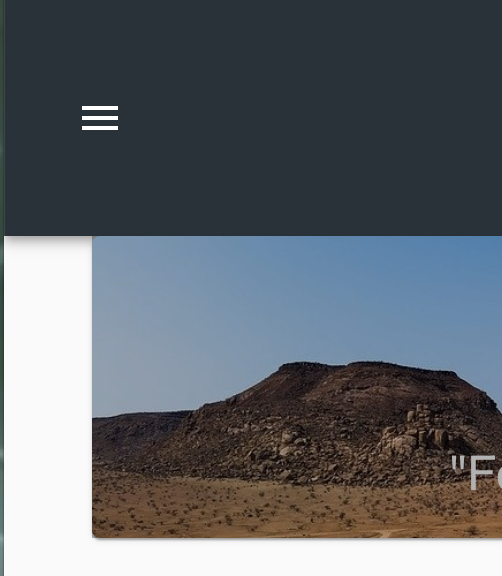
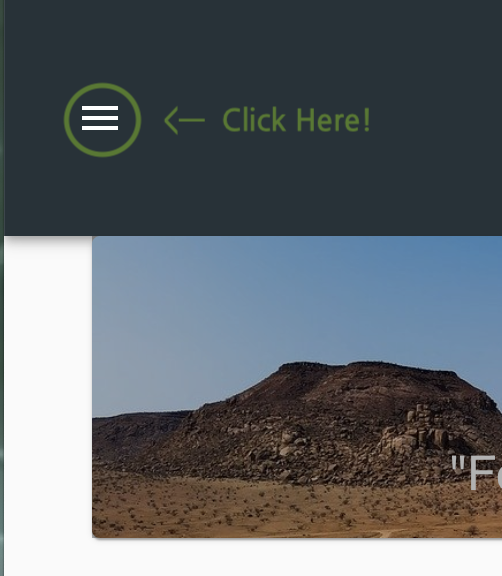
maybe final,,?

diff --git a/aganon_web/src/pages/Header.js b/aganon_web/src/pages/Header.js
@@ -65,7 +65,7 @@ const useStyles = makeStyles(theme => ({
     fontFamily: "Times New Roman",
     //fontFamily: "sans-serif",
     display: "none",
-    paddingLeft: theme.spacing(60),
+    //paddingLeft: theme.spacing(60),
     [theme.breakpoints.up("sm")]: {
       display: "block"
     }
@@ -84,6 +84,10 @@ const useStyles = makeStyles(theme => ({
     // textDecoration:FaBorderNone,
     // text-decoration: none,
     // color: green,
+  },
+  homeButton: {
+    border: 0,
+    outline: 0
   },
   search: {
     position: "relative",
@@ -202,26 +206,29 @@ export default function Header() {
           </div>
           */}
           {/* <Icon className="fa fa-plus-circle" style={{ color: green[500] }} /> */}
-          <Button>
-            <Typography className={classes.title} variant="h4">
-              <PublicIcon className={classes.icon} />
-              <Link style={{ textDecoration: "none", color: "white" }} to="/">
-                Aganon
-              </Link>
-            </Typography>
-          </Button>
+
+          <div className={classes.title}>
+            <Button className={classes.homeButton}>
+              <Typography className={classes.title} variant="h4">
+                <PublicIcon className={classes.icon} />
+                <Link style={{ textDecoration: "none", color: "white" }} to="/">
+                  Aganon
+                </Link>
+              </Typography>
+            </Button>
+          </div>
 
           {/* <a href=""><FaGlobeAfrica />  AGANON</a>
           {/* <div className={classes.title} variant="h6" noWrap>
             <a href=""><FaGlobeAfrica />  AGANON</a>
           </div> */}
-          <div className={classes.search}>
-            {/*}
+          {/*<div className={classes.search}>*/}
+          {/*}
             <div className={classes.searchIcon}>
               <SearchIcon />
             </div>
         */}
-            {/*
+          {/*
             <InputBase
               placeholder="Search…"
               classes={{
@@ -231,15 +238,15 @@ export default function Header() {
               inputProps={{ "aria-label": "search" }}
             />
             */}
-            {/*<select onChange={countrySelected} defaultValue="default">*/}
+          {/*<select onChange={countrySelected} defaultValue="default">*/}
 
-            {/* <select onChange={value => countrySelected(value)}>
+          {/* <select onChange={value => countrySelected(value)}>
               <option value="default" disabled style={{ color: "#ccc" }}>
                 {"select country"}
               </option>
               {countryList}
             </select> */}
-          </div>
+          {/*</div>*/}
         </Toolbar>
       </AppBar>
       {/*

diff --git a/aganon_web/src/pages/FeaturedPost2.js b/aganon_web/src/pages/FeaturedPost2.js
@@ -30,37 +30,35 @@ export default function FeaturedPost2(props) {
 
   return (
     <Grid item xs={12} md={18}>
-      <CardActionArea component="a" href="#">
-        <Card className={classes.card}>
-          <div className={classes.cardDetails}>
-            <CardContent>
-              <Typography component="h2" variant="h5">
-                {post.title}
-              </Typography>
-              <Typography variant="subtitle1" color="textSecondary">
-                {post.date}
-              </Typography>
-              <br />
-              <Typography variant="overline" paragraph>
-                {post.description}
-              </Typography>
-              <Typography variant="overline" paragraph>
-                {post.description2}
-              </Typography>
-              <Typography variant="overline" paragraph>
-                {post.description3}
-              </Typography>
-            </CardContent>
-          </div>
-          <Hidden xsDown>
-            <CardMedia
-              className={classes.cardMedia}
-              image={mainImage}
-              title={post.imageTitle}
-            />
-          </Hidden>
-        </Card>
-      </CardActionArea>
+      <Card className={classes.card}>
+        <div className={classes.cardDetails}>
+          <CardContent>
+            <Typography component="h2" variant="h5">
+              {post.title}
+            </Typography>
+            <Typography variant="subtitle1" color="textSecondary">
+              {post.date}
+            </Typography>
+            <br />
+            <Typography variant="overline" paragraph>
+              {post.description}
+            </Typography>
+            <Typography variant="overline" paragraph>
+              {post.description2}
+            </Typography>
+            <Typography variant="overline" paragraph>
+              {post.description3}
+            </Typography>
+          </CardContent>
+        </div>
+        <Hidden xsDown>
+          <CardMedia
+            className={classes.cardMedia}
+            image={mainImage}
+            title={post.imageTitle}
+          />
+        </Hidden>
+      </Card>
     </Grid>
   );
 }

diff --git a/aganon_web/src/pages/FeaturedPost.js b/aganon_web/src/pages/FeaturedPost.js
@@ -30,34 +30,34 @@ export default function FeaturedPost(props) {
 
   return (
     <Grid item xs={12} md={18}>
-      <CardActionArea component="a" href="#">
-        <Card className={classes.card}>
-          <div className={classes.cardDetails}>
-            <CardContent>
-              <Typography component="h2" variant="h5">
-                {post.title}
-              </Typography>
-              <Typography variant="subtitle1" color="textSecondary">
-                {post.date}
-              </Typography>
-              <br />
-              <Typography variant="overline" paragraph>
-                {post.description}
-              </Typography>
-              <Typography variant="overline" paragraph>
-                {post.description2}
-              </Typography>
-            </CardContent>
-          </div>
-          <Hidden xsDown>
-            <CardMedia
-              className={classes.cardMedia}
-              image={aboutImage}
-              title={post.imageTitle}
-            />
-          </Hidden>
-        </Card>
-      </CardActionArea>
+      {/*<CardActionArea component="a" href="#">*/}
+      <Card className={classes.card}>
+        <div className={classes.cardDetails}>
+          <CardContent>
+            <Typography component="h2" variant="h5">
+              {post.title}
+            </Typography>
+            <Typography variant="subtitle1" color="textSecondary">
+              {post.date}
+            </Typography>
+            <br />
+            <Typography variant="overline" paragraph>
+              {post.description}
+            </Typography>
+            <Typography variant="overline" paragraph>
+              {post.description2}
+            </Typography>
+          </CardContent>
+        </div>
+        <Hidden xsDown>
+          <CardMedia
+            className={classes.cardMedia}
+            image={aboutImage}
+            title={post.imageTitle}
+          />
+        </Hidden>
+      </Card>
+      {/*</CardActionArea>*/}
     </Grid>
   );
 }
